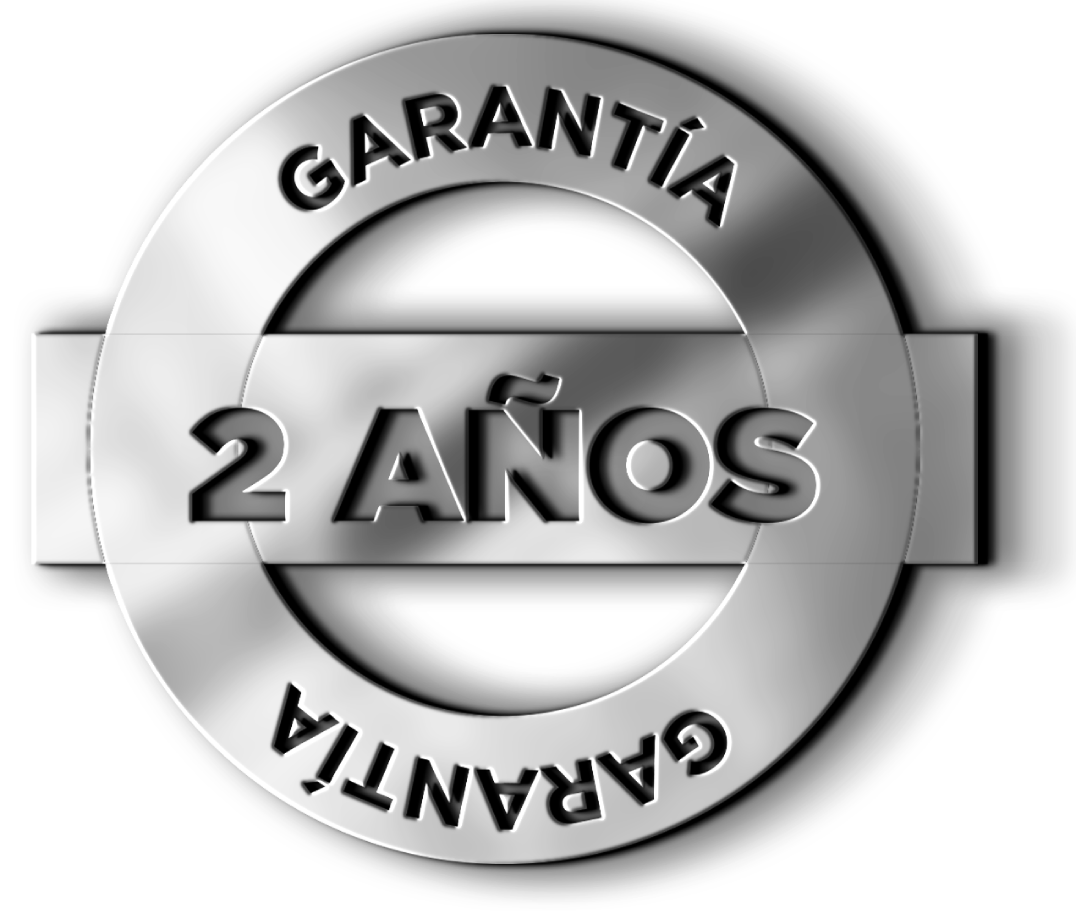
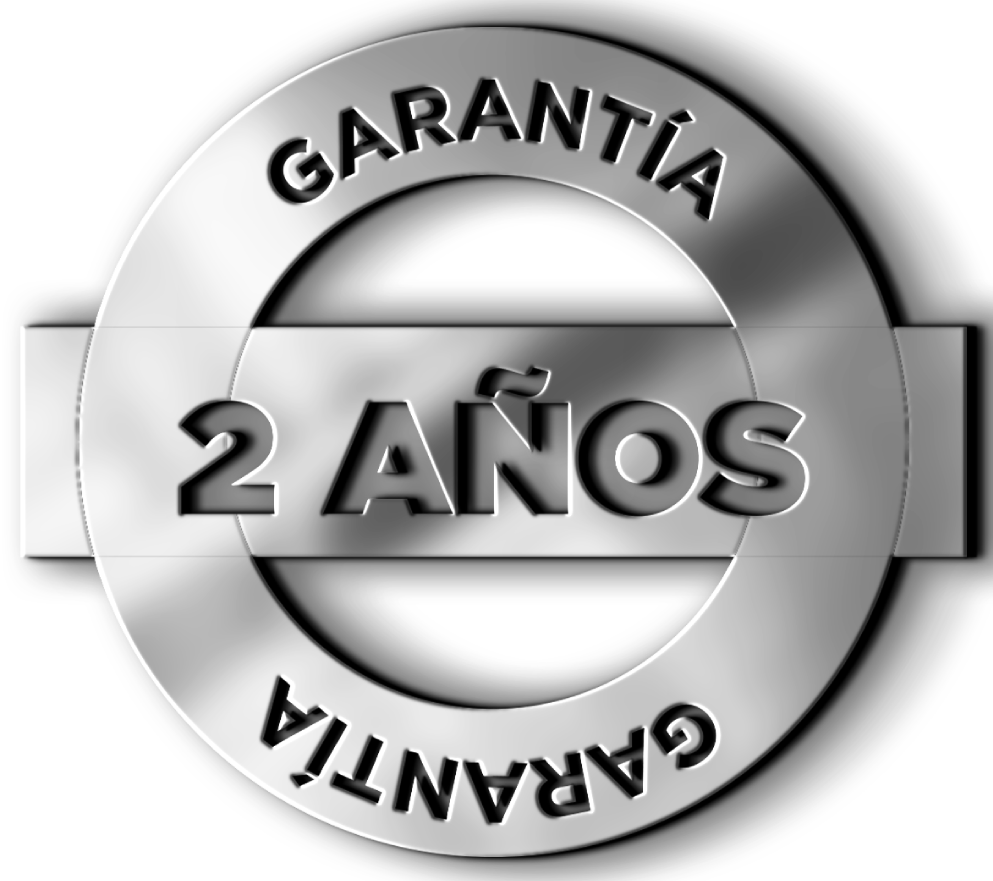
feat: convert images to webp, redesign contact form, and add guarantee badge to hero
- Convert all PNG/JPG images to WebP for better performance
- Redesign contact form with dark theme (inverted colors, gold CTA button)
- Add auto-sizing textarea with 200 char limit and live counter
- Add server-side validation for 200 char message limit
- Hide reCAPTCHA badge via CSS
- Add guarantee badge to hero (visible >=1200px)

diff --git a/src/lib/schemas.ts b/src/lib/schemas.ts
@@ -17,7 +17,7 @@ export const contactSchema = z.object({
     .string()
     .min(1, 'El mensaje es requerido')
     .min(10, 'El mensaje debe tener al menos 10 caracteres')
-    .max(5000, 'El mensaje es demasiado largo'),
+    .max(200, 'El mensaje no puede superar los 200 caracteres'),
   recaptchaToken: z.string().optional(),
 });
 
